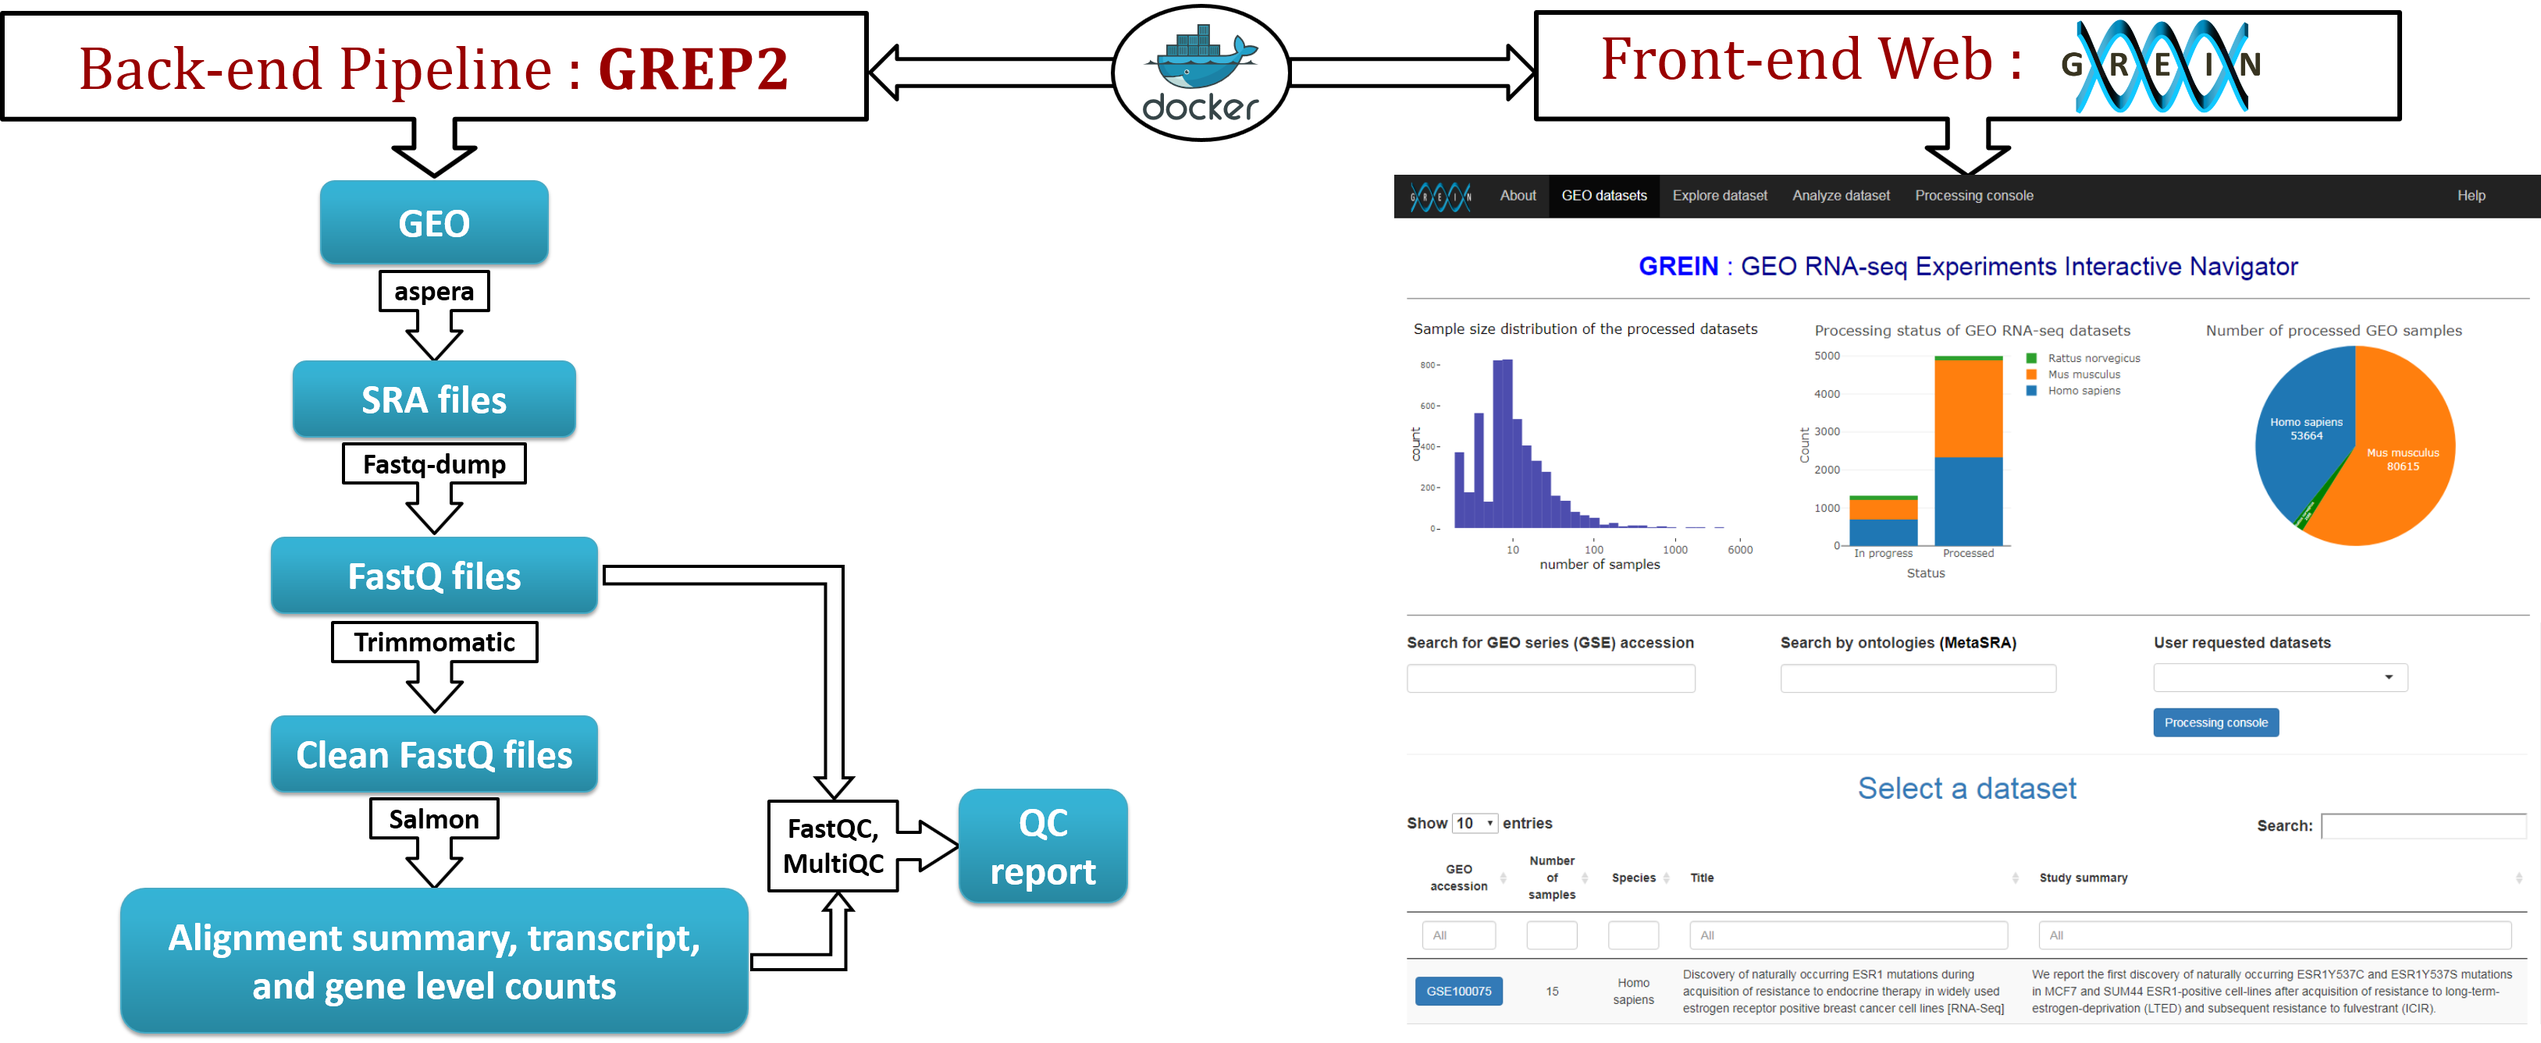
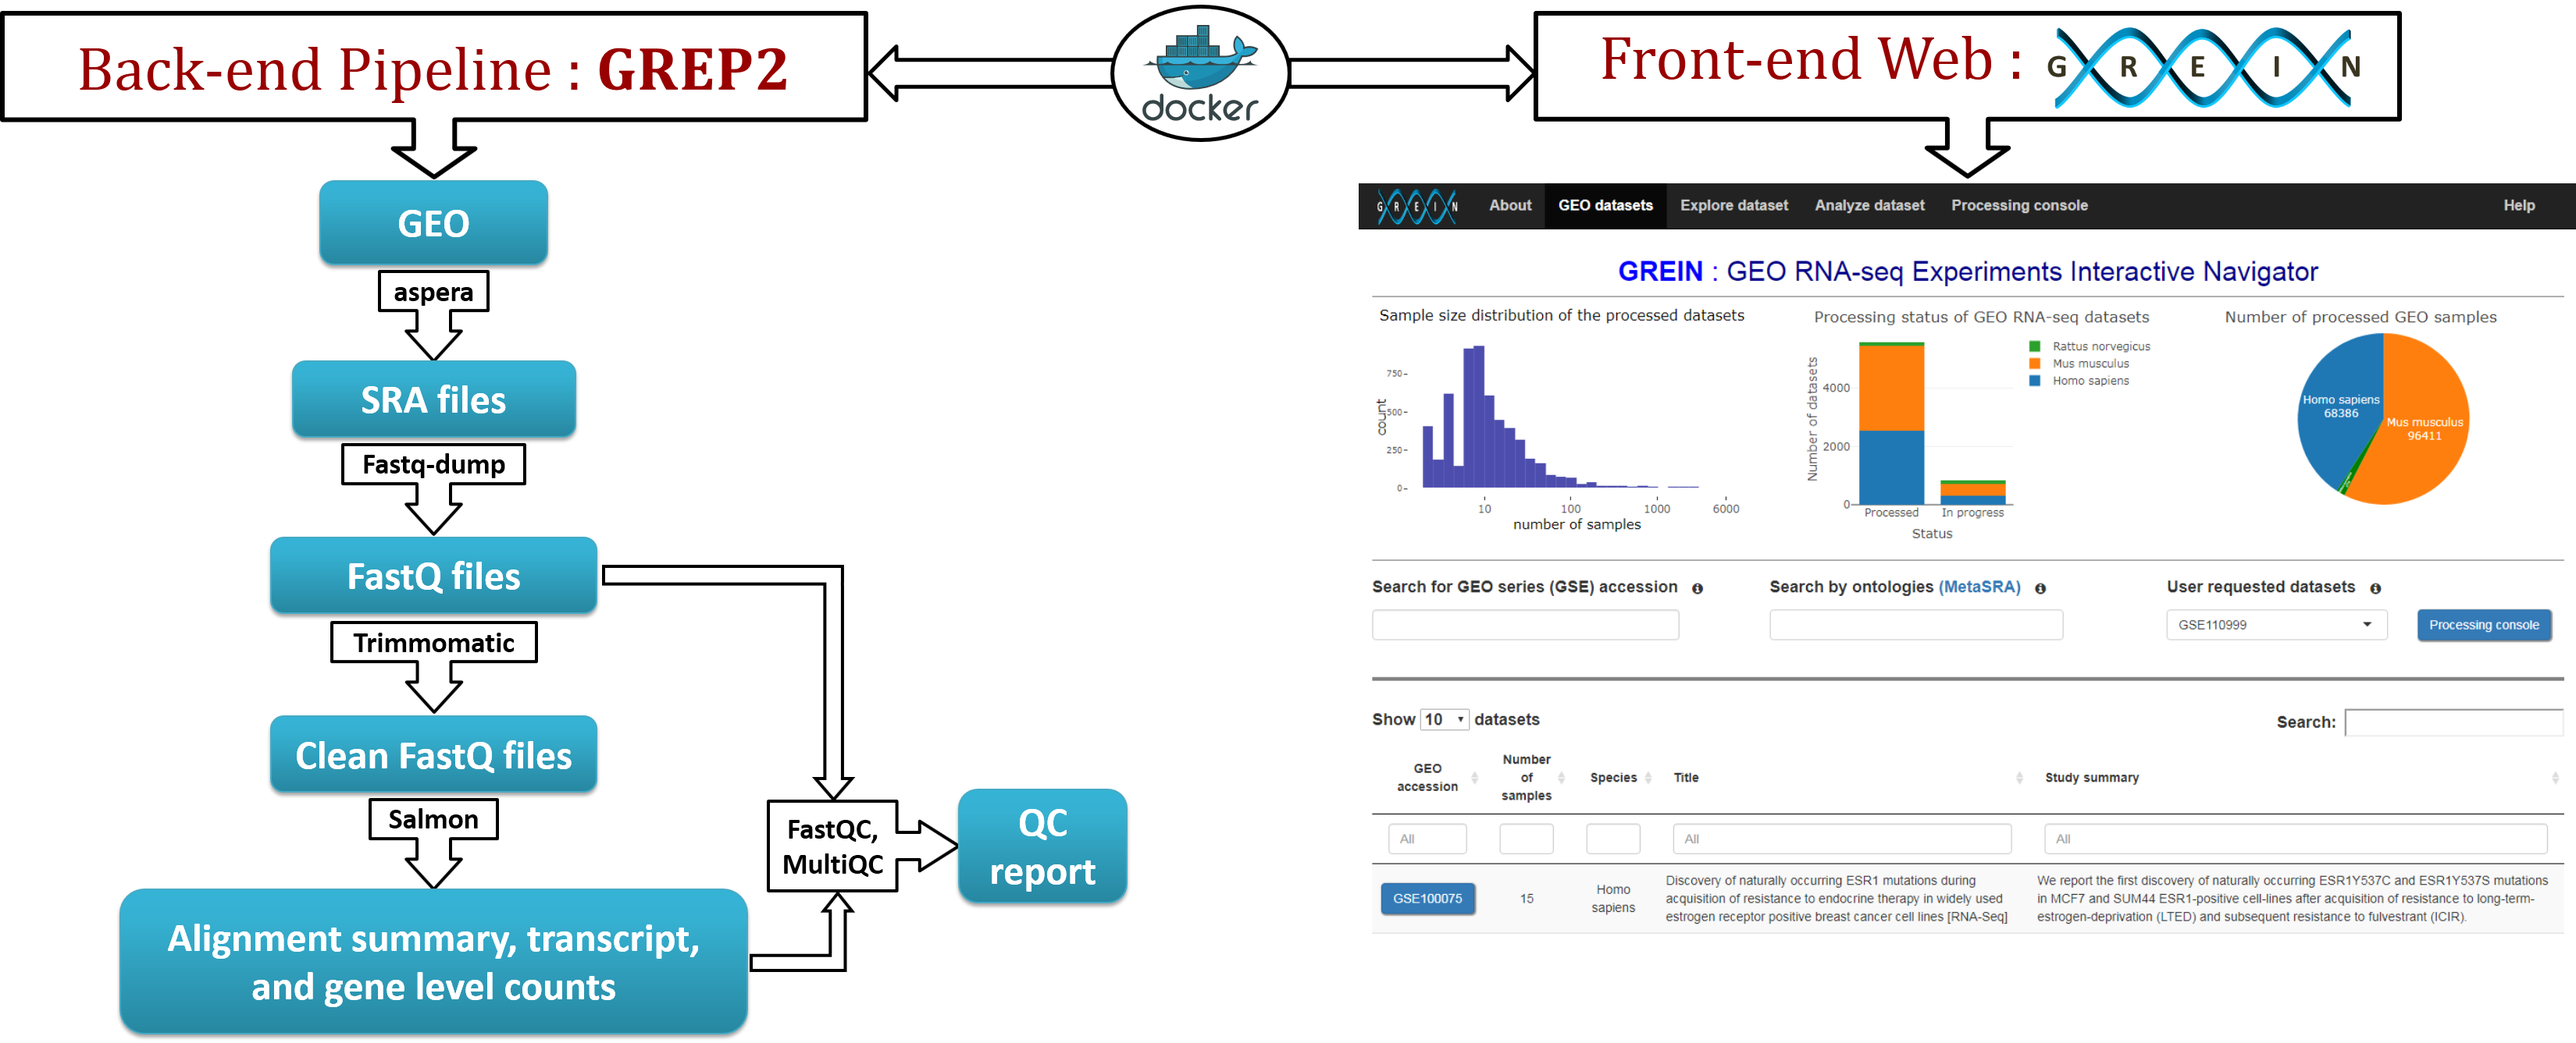
changed description

diff --git a/README.md b/README.md
@@ -17,7 +17,7 @@ GREIN provides the flexibility to analyze and create ilincs compliant signatures
 In addition, GREIN produces publication-ready graphs and let the user to download all the analysis results. By accumulating the processed 
 GEO RNA-seq datasets in a common platform, we present GREIN as a prominent choice to the practitioner for analyzing GEO RNA-seq datasets.
 
-![GEO RNA-seq pipeline workflow](../master/www/images/About_steps2.png)
+![GEO RNA-seq pipeline workflow](../master/www/images/About_steps3_814x335.png)
 
 ---
 ## If you use [GREIN](https://shiny.ilincs.org/grein), please cite:
